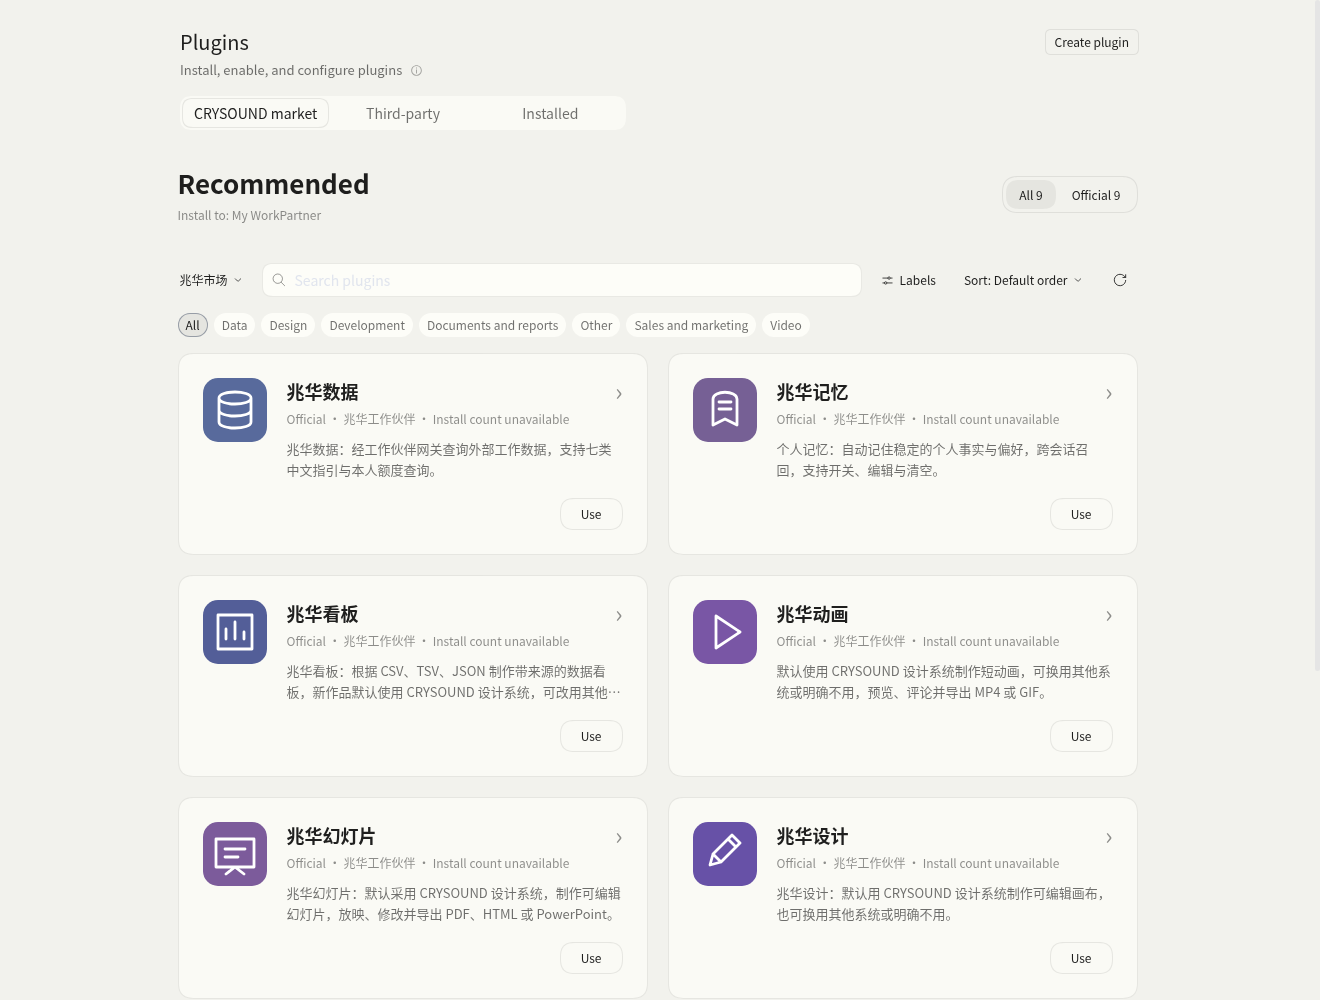
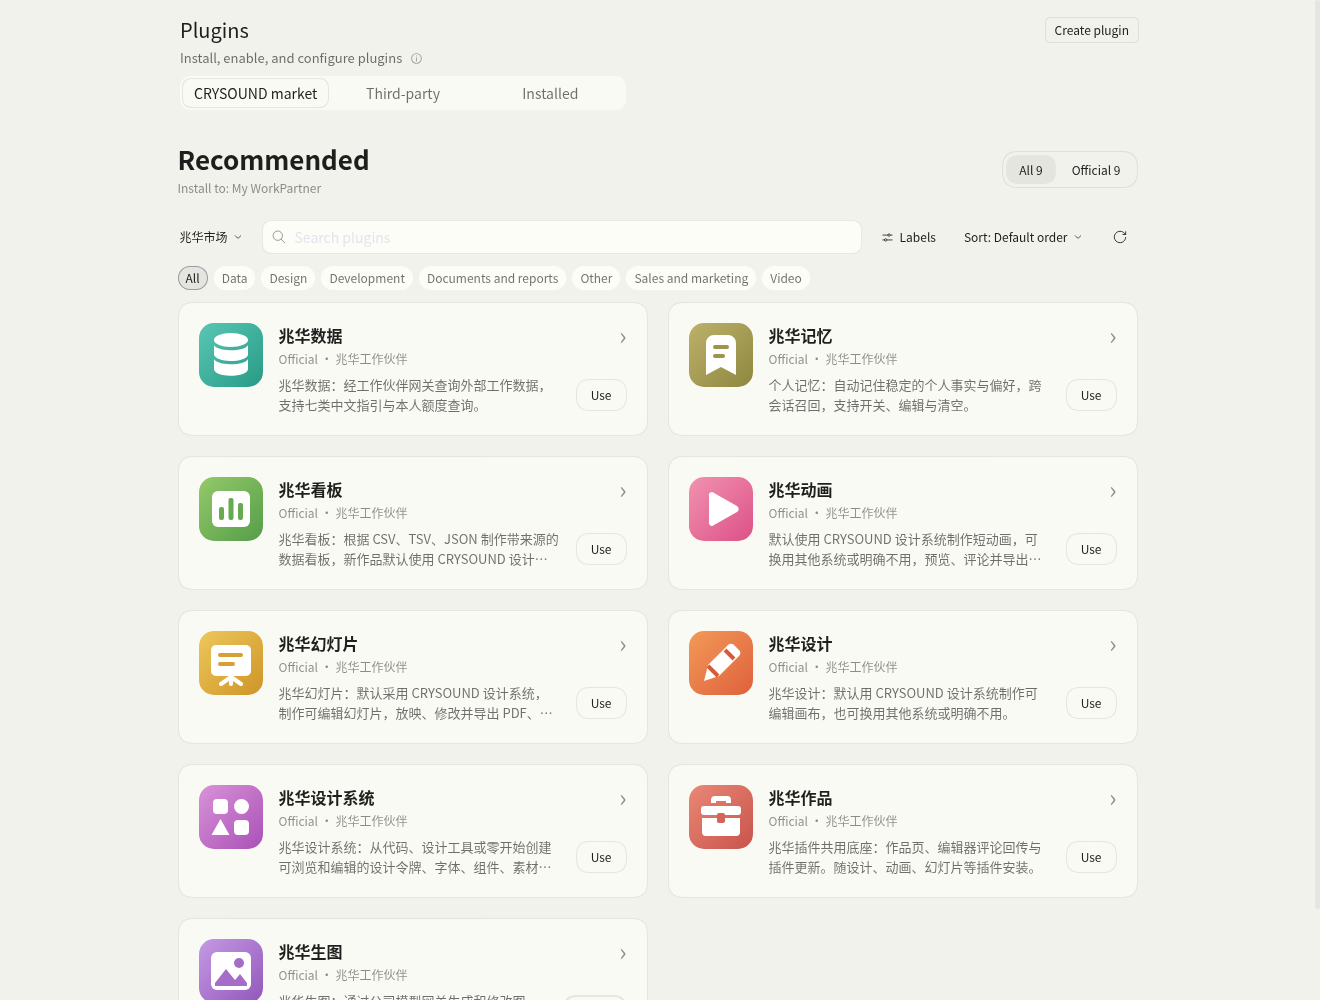
Refine market artwork and compact card layout after review

diff --git a/crysound/web/market/README.zh.md b/crysound/web/market/README.zh.md
@@ -107,15 +107,15 @@ MARKET_TEST_TOOLS=<隔离依赖目录> node crysound/web/tests/registry-smoke.mj
 
 真实环境还需验证：镜像构建和现有用户重建、新用户自助开通、桌面登录/退出/过期重登、Jason 收到卡片并完成审批、品牌层下“兆华市场”标签及点击安装、公司网络与代理下的 scope 和 tarball 鉴权、容器内网 DNS 与磁盘权限。不要在验收中输出凭据。
 
-## 推荐卡片与安装统计
+## 推荐卡片与下载统计
 
-`patch-market-cards.mjs` 与构建期市场补丁提供两列卡片，窗口小于 900px 或内容区小于 650px 时一列；图标、元信息、两行说明、胶囊操作及详情箭头共用样式。内置配置也沿用大卡片；启停开关、异常、更新提示及第三方的完整操作仍保留。公司市场分段数量表示当前已加载的搜索结果，继续加载后增长；分类、搜索、排序、刷新继续走原生数据流。第三方标题显示当前匹配总数。桌面通过原生 `data-platform` 标记显示“当前电脑”，网页显示“我的工作伙伴”。
+`patch-market-cards.mjs` 与构建期市场补丁提供两列卡片，窗口小于 900px 或内容区小于 650px 时一列；图标、元信息、两行说明、胶囊操作及详情箭头共用样式；说明与按钮始终并排，名称 16px，列表头收紧间距。内置配置也沿用大卡片；启停开关、异常、更新提示及第三方的完整操作仍保留。公司市场分段数量表示当前已加载的搜索结果，继续加载后增长；分类、搜索、排序、刷新继续走原生数据流。第三方标题显示当前匹配总数。桌面通过原生 `data-platform` 标记显示“当前电脑”，网页显示“我的工作伙伴”。
 
-官方 SVG 源图在 `crysound/brand/market-icons/`。执行 `node crysound/scripts/sync-market-card-patch.mjs` 将图标编码到 `plugins.json` 的官方项，并生成独立下载的 `plugin-patches.mjs` 内对应补丁；`--check` 拒绝漂移。这样旧桌面仍能下载单个自包含配置文件。公司与第三方补丁只改发布产物，不改上游源码。网页版镜像构建在修补前复制图标配置。
+九个官方图标采用可区分色相的同向渐变、饱满白色图形；默认首字图标也使用不含蓝色的固定调色板。官方 SVG 源图在 `crysound/brand/market-icons/`。执行 `node crysound/scripts/sync-market-card-patch.mjs` 将图标编码到 `plugins.json` 的官方项，并生成独立下载的 `plugin-patches.mjs` 内对应补丁；`--check` 拒绝漂移。这样旧桌面仍能下载单个自包含配置文件。公司与第三方补丁只改发布产物，不改上游源码。网页版镜像构建在修补前复制图标配置。
 
-网关把每次完整的、已授权的包 GET 下载累计到 `market.json.installs`，只存包名与总数；HEAD、元数据读取、被拒绝或传输失败不计数。发布和计数共用现有串行写入，临时文件原子替换；损坏统计不会清零。此数字从部署后开始，含升级及重下，不等同于安装成功数或独立用户数，也不补历史。索引通过原生 `metadata.sortKeys.crysound-installs` 传递，以“安装次数”展示并可排序。应把该统计文件与原市场状态和注册表一起备份；恢复只由运维处理。保存统计失败只记日志，不把已下载的包改成失败。
+网关把每次完整的、已授权的包 GET 下载累计到 `market.json.installs`，只存包名与总数；HEAD、元数据读取、被拒绝或传输失败不计数。发布和计数共用现有串行写入，临时文件原子替换；损坏统计不会清零。此数字从部署后开始，含升级及重下，不等同于安装成功数或独立用户数，也不补历史。索引通过原生 `metadata.sortKeys.crysound-installs` 传递，以“N 次下载”展示并可排序。应把该统计文件与原市场状态和注册表一起备份；恢复只由运维处理。保存统计失败只记日志，不把已下载的包改成失败。
 
-第三方沿用其 npm 或发布附件下载统计，标成下载次数；上游未提供安装数的已安装项目显示“暂无安装统计”，作者缺失显示“未提供作者”，不猜测。版本、分类、日期保留在公司市场原生详情页；第三方详情保留原版本、分类、下载来源与完整操作，未提供的日期不补造。
+第三方沿用其 npm 或发布附件下载统计，标成下载次数；未提供下载数时省略计数整段，作者缺失显示“未提供作者”，不猜测。版本、分类、日期保留在公司市场原生详情页；第三方详情保留原版本、分类、下载来源与完整操作，未提供的日期不补造。
 
 浏览器检查：准备原始 0.2.2-rc.1 五个浏览器模块的可写副本和 dshmarket 1.73.12 的 `client/client.js`，在已登录的独立 CDP 标签运行：
 
@@ -123,4 +123,4 @@ MARKET_TEST_TOOLS=<隔离依赖目录> node crysound/web/tests/registry-smoke.mj
 CDP_TAB=<tab> MARKET_RUNTIME_MODULES=<modules> THIRD_PARTY_CLIENT=<client.js> node crysound/web/market/verify-cards.mjs <output>
 ```
 
-它替换本标签的浏览器响应，使用真实远端列表，不改服务器、账户配置或安装记录；英文加 `--english`，只替换本标签语言初始化并断开语言偏好持久化。检查三标签、宽窄布局、说明截断、元信息、操作、详情、搜索与清空，并保存裁掉侧栏账号的截图。真实安装完成、使用工作流、打包桌面及上线仍由伙伴助理验收；本机不构建镜像或桌面。
+它替换本标签的浏览器响应，使用真实远端列表，不改服务器、账户配置或安装记录；英文加 `--english`，只替换本标签语言初始化并断开语言偏好持久化。检查三标签、宽窄布局、说明截断、元信息、操作、详情、搜索与清空，并核对按钮与说明同行、无缺失统计占位，保存裁掉侧栏账号的截图及九个图标的 64px/40px 对照图。真实安装完成、使用工作流、打包桌面及上线仍由伙伴助理验收；本机不构建镜像或桌面。

diff --git a/crysound/web/market/README.md b/crysound/web/market/README.md
@@ -109,12 +109,12 @@ Production verification remains for operations: image builds and existing-contai
 
 ## Recommendation cards and counters
 
-The shared `patch-market-cards.mjs` adapter renders two columns, falling back to one below a 900px window or 650px content area. It preserves native search, category filters, sorting, refresh, installation, enable switches, warnings and update indicators. The third-party detail dialog retains the full original card and its controls. Company segments count currently loaded matching entries; third-party headings count all matching entries. Desktop uses the native `data-platform` marker for its local installation hint.
+The shared `patch-market-cards.mjs` adapter renders two columns, falling back to one below a 900px window or 650px content area. Descriptions and pill actions share a row at every width; titles use 16px type and the list heading has compact spacing. It preserves native search, category filters, sorting, refresh, installation, enable switches, warnings and update indicators. The third-party detail dialog retains the full original card and its controls. Company segments count currently loaded matching entries; third-party headings count all matching entries. Desktop uses the native `data-platform` marker for its local installation hint.
 
-Reviewable SVGs live in `crysound/brand/market-icons/`. Run `node crysound/scripts/sync-market-card-patch.mjs` to encode them into official `plugins.json` entries and regenerate the self-contained startup patch; `--check` detects drift. Both Web and desktop patch release artifacts rather than upstream sources.
+The nine official icons use distinct hues, matching diagonal gradients and filled white glyphs; generated initial icons use a fixed palette without blue. Reviewable SVGs live in `crysound/brand/market-icons/`. Run `node crysound/scripts/sync-market-card-patch.mjs` to encode them into official `plugins.json` entries and regenerate the self-contained startup patch; `--check` detects drift. Both Web and desktop patch release artifacts rather than upstream sources.
 
-The gateway stores aggregate completed authorized package GET transfers in `market.json.installs`, containing only package names and counts. Metadata reads, HEAD, rejected requests and failed transfers do not count. Updates and repeat downloads count; this is neither confirmed installation completion nor a unique-user measure. Counting starts at deployment without historical backfill. The native `crysound-installs` sort key carries counts through the existing index, labeled as installs. Back up counters with market state and registry data; operations owns restoration. Atomic writes share the existing queue, corrupt files fail visibly, and counter-write failures do not undo delivered packages.
+The gateway stores aggregate completed authorized package GET transfers in `market.json.installs`, containing only package names and counts. Metadata reads, HEAD, rejected requests and failed transfers do not count. Updates and repeat downloads count; this is neither confirmed installation completion nor a unique-user measure. Counting starts at deployment without historical backfill. The native `crysound-installs` sort key carries counts through the existing index, labeled as downloads. Back up counters with market state and registry data; operations owns restoration. Atomic writes share the existing queue, corrupt files fail visibly, and counter-write failures do not undo delivered packages.
 
-Third-party cards retain upstream download statistics as downloads. Installed entries without supplied counts or authors explicitly show unavailable values. Company native details retain versions, categories and publication dates. Third-party details retain available native metadata; missing dates are not invented.
+Third-party cards retain upstream download statistics as downloads. Missing counts are omitted entirely; missing installed authors are labeled unavailable. Company native details retain versions, categories and publication dates. Third-party details retain available native metadata; missing dates are not invented.
 
-Run `verify-cards.mjs` in a dedicated authenticated CDP tab with `CDP_TAB`, `MARKET_RUNTIME_MODULES` (a writable copy of the five pinned 0.2.2-rc.1 browser modules) and `THIRD_PARTY_CLIENT` (dshmarket 1.73.12 client). It substitutes responses only in that tab, uses live server lists, checks three surfaces, responsive columns, truncation, actions, detail navigation and controlled search, and crops screenshots to omit the sidebar and account. `--english` overrides only tab-local locale initialization without persisting a preference. Deployment, real install completion, Use workflows and packaged desktop acceptance remain with the delivery owner.
+Run `verify-cards.mjs` in a dedicated authenticated CDP tab with `CDP_TAB`, `MARKET_RUNTIME_MODULES` (a writable copy of the five pinned 0.2.2-rc.1 browser modules) and `THIRD_PARTY_CLIENT` (dshmarket 1.73.12 client). It substitutes responses only in that tab, uses live server lists, checks three surfaces, responsive columns, truncation, actions beside descriptions, omitted missing counts, detail navigation and controlled search, and crops screenshots to omit the sidebar and account. It also captures all nine official icons at 64px and 40px. `--english` overrides only tab-local locale initialization without persisting a preference. Deployment, real install completion, Use workflows and packaged desktop acceptance remain with the delivery owner.

diff --git a/crysound/web/market/evidence/issue-202/README.md b/crysound/web/market/evidence/issue-202/README.md
@@ -2,11 +2,11 @@
 
 The screenshots show the native application with tab-local response substitution of the actual pinned 0.2.2-rc.1 client modules and dshmarket 1.73.12. Lists, package state and detail requests use the existing server. The source patch is applied to published modules without building or changing the server. Screenshots omit the sidebar and account. No model request, installation, enable change, preference write or publication was performed.
 
-[Wide, 1600px window](wide.png) · [Narrow, 820px window](narrow.png) · [English](english.png) · [Installed](installed.png) · [Third-party](third-party.png).
+[Wide, 1600px window](wide.png) · [Narrow, 820px window](narrow.png) · [English](english.png) · [Installed](installed.png) · [Third-party](third-party.png) · [Nine official icons, 64px and 40px](icons.png).
 
-The browser check also covers a 520px window, dark theme, card and chevron detail navigation, controlled search and clearing, company/official segments, and third-party dialog opening and closing. Summaries: [Chinese](zh.json), [English](en.json). English uses the native locale initialization with a tab-local English preference and no Host preference persistence. Theme changes affect this tab only. The supplied release-module directory is a writable temporary copy.
+The browser check also covers a 520px window, dark theme, card and chevron detail navigation, controlled search and clearing, company/official segments, and third-party dialog opening and closing. It checks that actions remain beside descriptions and missing counts have no placeholder. Official icons use distinct non-blue gradients and filled glyphs; the icon board shows all nine at 64px and 40px. Summaries: [Chinese](zh.json), [English](en.json). English uses the native locale initialization with a tab-local English preference and no Host preference persistence. Theme changes affect this tab only. The supplied release-module directory is a writable temporary copy.
 
-The server has not received the new counter implementation, so screenshots correctly show unavailable company install counts. Gateway HTTP tests separately exercise the production handler and native index parser, checking completed transfers, parallel increments, restart persistence, access rejection, HEAD, upstream failure, file permissions and corrupt-count handling. An existing 27-case market regression passed using a temporary copy with its tsx import replaced by a direct TypeScript import under Node 24's transform-types mode; test bodies were unchanged. No dependency installation or full build ran.
+The server has not received the new counter implementation, so screenshots correctly omit company download counts. Gateway HTTP tests separately exercise the production handler and native index parser, checking completed transfers, parallel increments, restart persistence, access rejection, HEAD, upstream failure, file permissions and corrupt-count handling. An existing 27-case market regression passed using a temporary copy with its tsx import replaced by a direct TypeScript import under Node 24's transform-types mode; test bodies were unchanged. No dependency installation or full build ran.
 
 Reproduce the lightweight checks from the repository root, with published modules supplied separately:
 
@@ -19,4 +19,4 @@ CDP_TAB=<dedicated-tab> MARKET_RUNTIME_MODULES=<writable-module-copy> THIRD_PART
 
 The gateway check uses Node 24 and an existing semver dependency. The browser check requires the skill-configured persistent CDP browser. Add `--english` for the isolated English pass.
 
-Pending: review of the layout and glyphs; gateway and image deployment; actual installation completion and Use workflows; packaged Electron acceptance. The counter measures completed package transfers (including updates and repeats), not unique people or confirmed installation success. Counts start at rollout. Native installed metadata does not supply authors/counts, so unavailable fields are explicitly labeled. Third-party counts remain downloads with the native statistic available in details. No GIF is embedded: static wide/narrow screenshots document this layout change; a fresh full build is outside the permitted lightweight validation scope.
+Pending: Jason’s final review of the revised glyphs and screenshots; gateway and image deployment; actual installation completion and Use workflows; packaged Electron acceptance. The counter measures completed package transfers (including updates and repeats), not unique people or confirmed installation success. Counts start at rollout. Native installed metadata does not supply authors/counts, so absent counts are omitted and absent authors are labeled. Third-party counts remain downloads with the native statistic available in details. No GIF is embedded: static wide/narrow screenshots document this layout change; a fresh full build is outside the permitted lightweight validation scope.
